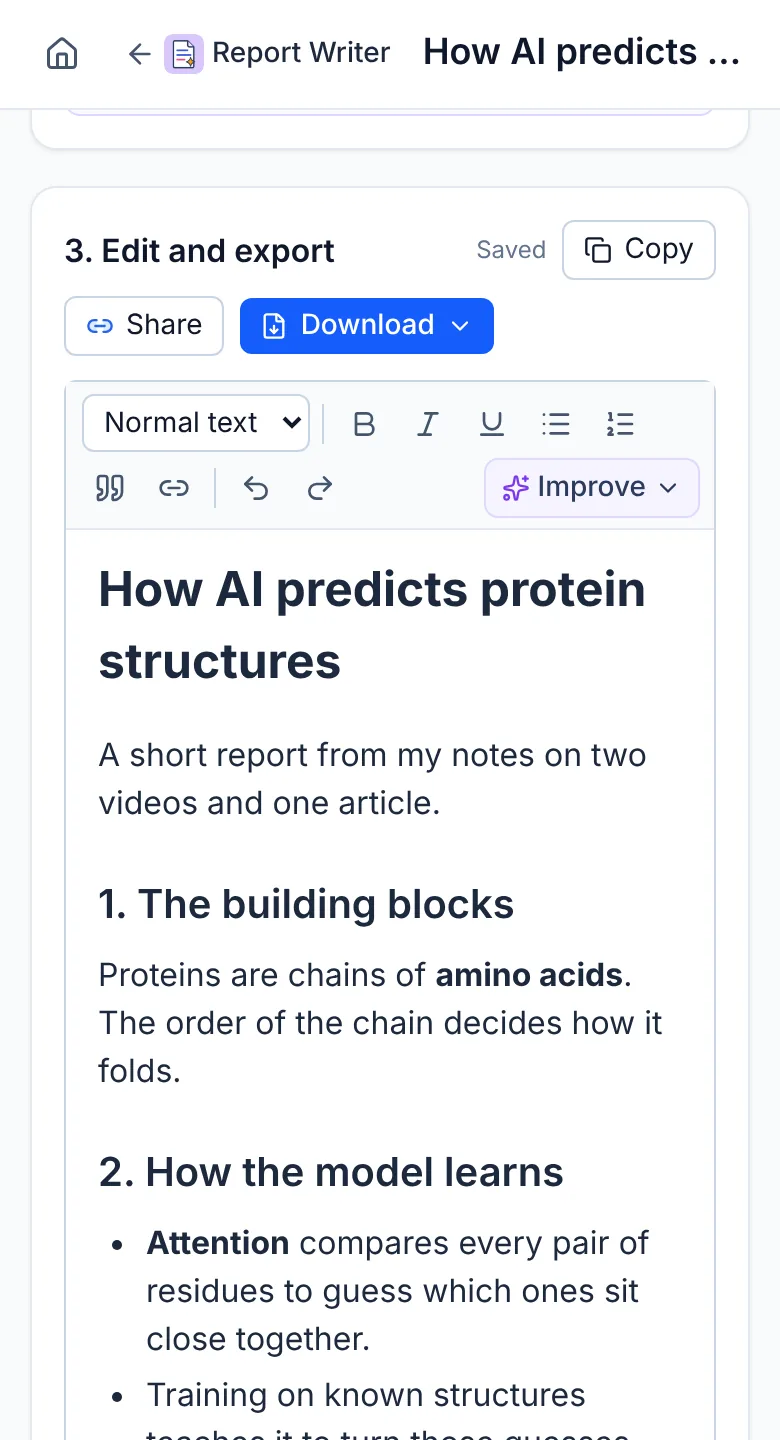
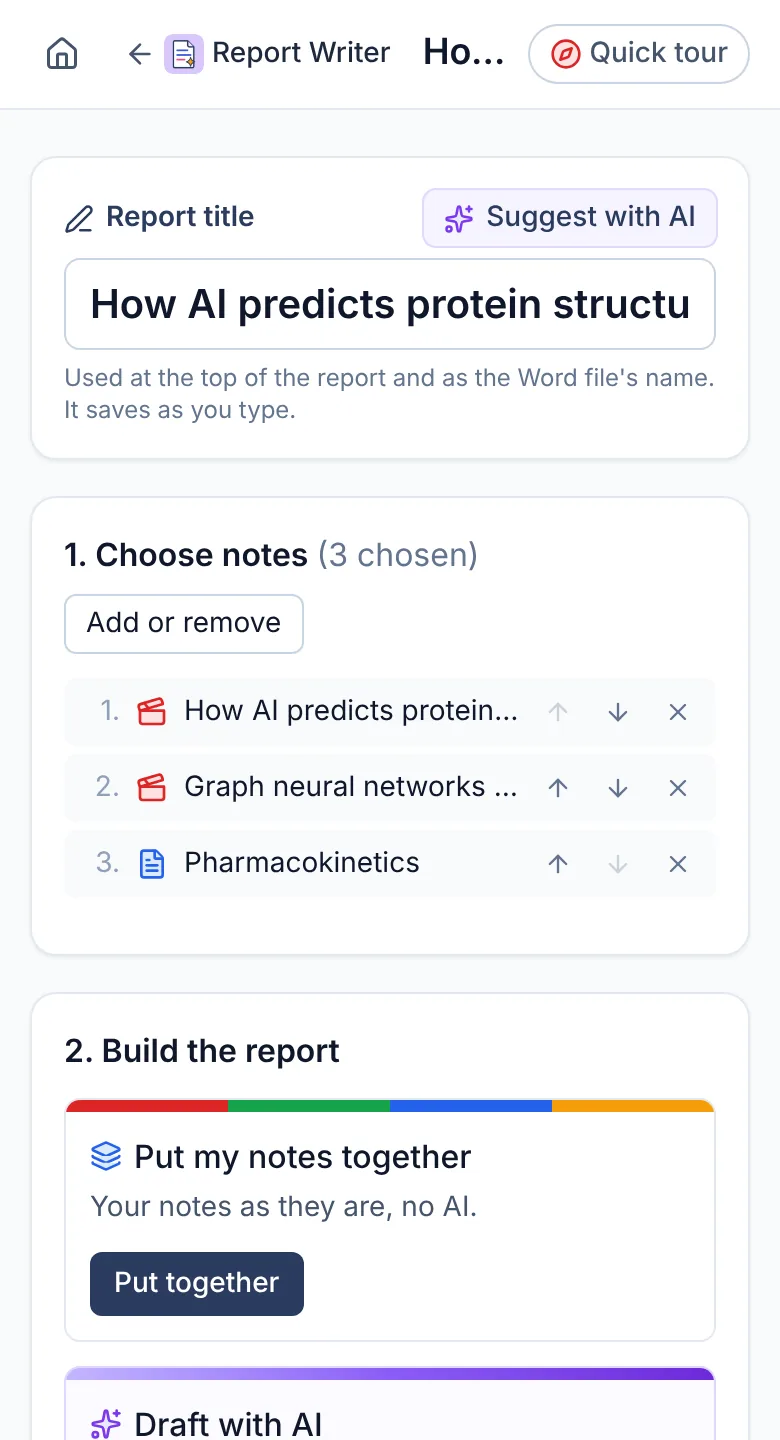
Sign-in tour shows the new Report Writer; tours end the same way on every tab
The sign-in tour now has two Report Writer slides: the reports list with
categories, and a report's choose, build and share steps. Reading and
ScrapBook tours now end like Videos: Report Writer, Clips, AI usage.

Claude-Session: https://claude.ai/code/session_018M3SaJ1Y2RRVBKjSwdN5rJ

diff --git a/src/lib/tours.ts b/src/lib/tours.ts
@@ -73,7 +73,7 @@ export const TOURS = {
     {
       target: "add-article",
       title: "Save anything you read",
-      text: "Paste a link to an article, an X post or any web page. BrainShelf sorts it into a category named after its author (or its company), or pick a category yourself.",
+      text: "Paste a link to an article, an X post or any web page. BrainShelf sorts it into a category named after its author (or its company), or pick a category yourself. Make your own categories and subcategories too.",
     },
     {
       target: "read-filter",
@@ -94,6 +94,16 @@ export const TOURS = {
       title: "Turn notes into a report",
       text: "Report Writer pulls your notes from readings, tutorials, videos and ScrapBook into one report. Edit it, share a read-only link, or download it as Word or PDF.",
     },
+    {
+      target: "clips",
+      title: "Your clips in one place",
+      text: "See every screenshot you've clipped into your notes, and delete the ones you don't need to free up space.",
+    },
+    {
+      target: "ai-usage",
+      title: "See your AI usage",
+      text: "AI usage shows how many answers AI gave you, how fast, which models, and how much space your notes and files take.",
+    },
   ],
   scrapbook: [
     {
@@ -109,6 +119,21 @@ export const TOURS = {
       target: "ask-category",
       title: "Ask a whole category",
       text: "Open a category and tap Ask this category to ask one question across all its pages. Each answer says which page it came from.",
+    },
+    {
+      target: "report-writer",
+      title: "Turn notes into a report",
+      text: "Report Writer pulls your notes from ScrapBook pages, videos, readings and tutorials into one report. Edit it, share a read-only link, or download it as Word or PDF.",
+    },
+    {
+      target: "clips",
+      title: "Your clips in one place",
+      text: "See every screenshot you've clipped into your notes, and delete the ones you don't need to free up space.",
+    },
+    {
+      target: "ai-usage",
+      title: "See your AI usage",
+      text: "AI usage shows how many answers AI gave you, how fast, which models, and how much space your notes and files take.",
     },
   ],
   vault: [

diff --git a/src/components/LandingTour.tsx b/src/components/LandingTour.tsx
@@ -13,6 +13,7 @@ import {
   NotebookPen,
   Pencil,
   ScrollText,
+  Sparkles,
   X,
   type LucideIcon,
 } from "lucide-react";
@@ -56,15 +57,23 @@ const SLIDES: Slide[] = [
     icon: ScrollText,
     tone: "blue",
     title: "Turn your notes into a report",
-    text: "Report Writer pulls your notes from videos, readings, tutorials and ScrapBook into one report. Put them together as they are or draft with AI, edit it like in Word, then copy it, share a read-only link, or download it as Word or PDF. Sort reports into categories.",
+    text: "Report Writer pulls your notes from videos, readings, tutorials and ScrapBook into one report. Keep your reports in categories and subcategories, like everything else.",
+    src: "/landing/reports.webp",
+    alt: "Report Writer: your reports, sorted into categories and subcategories",
+  },
+  {
+    icon: Sparkles,
+    tone: "violet",
+    title: "Choose, build, share",
+    text: "Choose your notes, then put them together as they are or draft with AI: a summary, a study guide, key takeaways or a quiz. Edit it like in Word, then copy it, share a read-only link, or download it as Word or PDF.",
     src: "/landing/report.webp",
-    alt: "Report Writer: a report built from your notes, ready to copy, share or download as Word or PDF",
+    alt: "A report: choose your notes, then put them together or draft with AI",
   },
   {
     icon: NotebookPen,
     tone: "amber",
     title: "A ScrapBook for your own ideas",
-    text: "Pages of your own for plans, ideas and sketches. Type with headings, lists and highlights, or draw, and sort pages into categories.",
+    text: "Pages of your own for plans, ideas and sketches. Type with headings, lists and highlights, or draw, and sort pages into categories and subcategories.",
     src: "/landing/scrapbook.webp",
     alt: "The ScrapBook with pages sorted into categories",
   },
